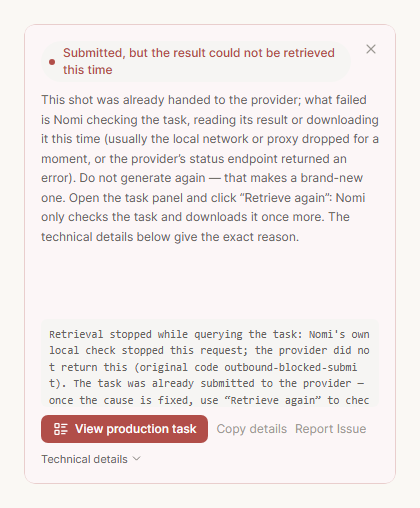
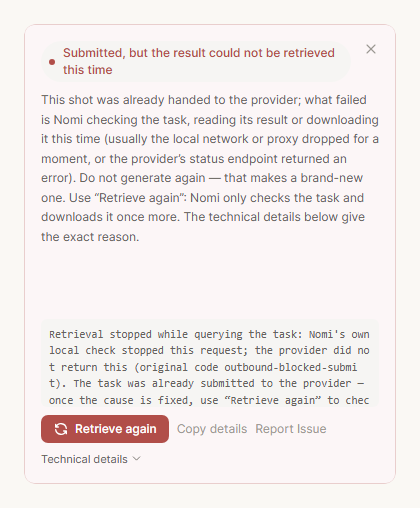
fix(canvas): 「已提交、没取回」错误卡主按钮按任务来源分——画布任务「去重新取回」，制作 Run 保留「查看制作任务」
协调 10-22 推送前要求：画布任务上写「查看制作任务」会误导（那是 Agent 制作任务的说法），而 view-task 对画布任务
打开的是任务中心，不是重新取回的地方。
- 新动作 open-recoverable（中英新键「去重新取回 / Retrieve again」）；NodeErrorReport 拿到节点 taskId（BaseGenerationNode 传入），
  画布任务（有 taskId、不是制作 Run）把 view-task 换成它，点了经 recoverTaskActions.reopenRecoverableNode 回到可找回面板；
  制作 Run 的镜保留「查看制作任务」；没有 taskId 的画布节点不给这颗按钮；
- retrieval-incomplete 的说明去掉「到任务面板」，两种去处都说得通；
- 中英截图重拍（画布 / 制作两种来源各一对），已逐张看过；测试 NodeErrorReport.retrievalSource.test.tsx 5/5，变异 → 2 红。

Direction-Check: docs/engineering/direction-checks/2026-10-22-retrieval-stage-error-class.md

Changed region(s): [[0.0929, 0.3543, 0.8667, 0.4724], [0.1238, 0.7972, 0.8667, 0.8858]]

diff --git a/src/workbench/generationCanvas/nodes/NodeErrorReport.tsx b/src/workbench/generationCanvas/nodes/NodeErrorReport.tsx
@@ -23,6 +23,7 @@ import { revealNotificationTarget } from '../../../ui/notificationPolicy'
 import { useSameCapabilityAlternative } from './useSameCapabilityAlternative'
 import { productionMetaOf } from '../model/productionMeta'
 import { withProjectAction } from '../../project/projectCanvasReadSurface'
+import { reopenRecoverableNode } from '../runner/recoverTaskActions'
 
 const ACTION_ICON: Record<GenerationErrorAction, typeof IconRefresh> = {
   retry: IconRefresh,
@@ -33,6 +34,7 @@ const ACTION_ICON: Record<GenerationErrorAction, typeof IconRefresh> = {
   // 「查看任务」去的是任务中心：和任务中心按钮同一个动作，用同一个图标。
   reconcile: IconListCheck,
   'view-task': IconListDetails,
+  'open-recoverable': IconRefresh,
   'release-regenerate': IconRefresh,
 }
 
@@ -55,9 +57,12 @@ export function NodeErrorReport({
   onDismiss,
   meta,
   nodeId,
+  taskId,
   summaryVisible = true,
 }: {
   message: string
+  /** 这次运行在服务商那边的任务号（节点 runs[0].taskId）。画布任务有它，「已提交、没取回」那一类才能回到可找回面板。 */
+  taskId?: string
   /** False when the owning node already displays this same failure summary inline. */
   summaryVisible?: boolean
   onRetry?: () => void
@@ -166,6 +171,13 @@ export function NodeErrorReport({
     })
   }, [releaseBusy, releaseRunId])
 
+  // 画布任务（不是制作 Run）且节点记着这次的 taskId：才回得到可找回面板。
+  const canvasRetrievable = Boolean(nodeId && taskId?.trim() && !productionMetaOf({ meta })?.runId)
+  const handleOpenRecoverable = React.useCallback((event: React.MouseEvent) => {
+    event.stopPropagation()
+    if (nodeId) reopenRecoverableNode(nodeId)
+  }, [nodeId])
+
   const handleReconcile = React.useCallback((event: React.MouseEvent) => {
     event.stopPropagation()
     const runId = productionMetaOf({ meta })?.runId
@@ -224,11 +236,15 @@ export function NodeErrorReport({
     'fix-model-kind': kindFixTarget ? handleFixModelKind : undefined,
     reconcile: handleReconcile,
     'view-task': handleReconcile,
+    'open-recoverable': canvasRetrievable ? handleOpenRecoverable : undefined,
     // 只有制作里的镜（有 runId）才放得了行；放行是把 Run 里那次未知尝试记掉，没有 Run 就没东西可记。
     'release-regenerate': releaseRunId ? (event: React.MouseEvent) => { event.stopPropagation(); setConfirmingRelease(true) } : undefined,
   }
   // 主动作点不了（例：同能力里没有另一个）时退到次动作，再不行才去模型接入。
-  const primaryAction = actionHandlers[report.primary] ? report.primary : report.secondary && actionHandlers[report.secondary] ? report.secondary : 'open-model-access'
+  // 「已提交、没取回」那一类的去处按任务来源分：制作 Run 去「查看制作任务」（任务中心里那一笔）；画布任务回到可找回面板
+  // 「去重新取回」——画布任务上写「查看制作任务」会误导（那是 Agent 制作任务的说法），而任务中心也不是重新取回的地方。
+  const sourcePrimary: GenerationErrorAction = report.primary === 'view-task' && canvasRetrievable ? 'open-recoverable' : report.primary
+  const primaryAction = actionHandlers[sourcePrimary] ? sourcePrimary : report.secondary && actionHandlers[report.secondary] ? report.secondary : 'open-model-access'
   const secondaryAction = report.secondary && report.secondary !== primaryAction && actionHandlers[report.secondary] ? report.secondary : null
   // 「改成图片」要点出改成**哪个**类型，否则按钮只是「改类型」——用户还得自己再想一步。
   const actionLabelParams: Record<string, string> | undefined = kindFixTarget ? { kind: narrateModelKind(kindFixTarget.requested) } : sameCapability ? { model: sameCapability.option.label } : undefined

diff --git a/src/workbench/generationCanvas/nodes/NodeErrorReport.retrievalSource.test.tsx b/src/workbench/generationCanvas/nodes/NodeErrorReport.retrievalSource.test.tsx
@@ -1,0 +1,57 @@
+// 「已提交、没取回」那一类错误卡的主按钮按任务来源分（⑬，协调 10-22）：
+// 画布任务回到可找回面板「去重新取回」；制作 Run 保留「查看制作任务」。画布任务上写「查看制作任务」会误导。
+import { beforeEach, describe, expect, it } from 'vitest'
+import { renderToStaticMarkup } from 'react-dom/server'
+
+import i18n from '../../../i18n'
+import { tagNomiError } from '../../../../electron/shared/nomiErrorCodes'
+import { useGenerationCanvasStore } from '../store/generationCanvasStore'
+import { reopenRecoverableNode } from '../runner/recoverTaskActions'
+import { NodeErrorReport } from './NodeErrorReport'
+
+const RETRIEVAL_FAILURE = tagNomiError('retrieval-query', '取回卡在「查询任务」这一步：socket hang up')
+
+function canvasNode(taskId?: string): string {
+  const store = useGenerationCanvasStore.getState()
+  const node = store.addNode({ kind: 'video', prompt: '镜头 1', meta: { modelVendor: 'apimart', modelKey: 'video-model' } })
+  store.appendNodeRun(node.id, { id: 'run-1', status: 'running', startedAt: 1, updatedAt: 1, ...(taskId ? { taskId } : {}) })
+  store.setNodeStatus(node.id, 'error', RETRIEVAL_FAILURE)
+  return node.id
+}
+
+beforeEach(async () => {
+  await i18n.changeLanguage('zh-CN')
+  useGenerationCanvasStore.getState().restoreSnapshot({ nodes: [], edges: [], selectedNodeIds: [], groups: [] })
+})
+
+describe('「已提交、没取回」错误卡的主按钮按任务来源分', () => {
+  for (const lang of ['zh-CN', 'en'] as const) {
+    it(`${lang} · 画布任务（有 taskId）：主按钮是「去重新取回」，不是「查看制作任务」`, async () => {
+      await i18n.changeLanguage(lang)
+      const nodeId = canvasNode('task-paid-1')
+      const markup = renderToStaticMarkup(<NodeErrorReport message={RETRIEVAL_FAILURE} nodeId={nodeId} taskId="task-paid-1" meta={{}} onRetry={() => {}} />)
+      expect(markup).toContain(i18n.t('generationCommon.observability.action.openRecoverable.main'))
+      expect(markup).not.toContain(i18n.t('generationCommon.observability.action.viewTask.main'))
+    })
+  }
+
+  it('制作 Run 的镜：保留「查看制作任务」', () => {
+    const nodeId = canvasNode('task-paid-2')
+    const markup = renderToStaticMarkup(<NodeErrorReport message={RETRIEVAL_FAILURE} nodeId={nodeId} taskId="task-paid-2" meta={{ productionRunId: 'run-x', productionShotId: 's1' }} onRetry={() => {}} />)
+    expect(markup).toContain(i18n.t('generationCommon.observability.action.viewTask.main'))
+    expect(markup).not.toContain(i18n.t('generationCommon.observability.action.openRecoverable.main'))
+  })
+
+  it('画布任务没有 taskId（回不到可找回）：不给一颗按不动的「去重新取回」，退回原动作', () => {
+    const nodeId = canvasNode()
+    const markup = renderToStaticMarkup(<NodeErrorReport message={RETRIEVAL_FAILURE} nodeId={nodeId} meta={{}} onRetry={() => {}} />)
+    expect(markup).not.toContain(i18n.t('generationCommon.observability.action.openRecoverable.main'))
+  })
+
+  it('点「去重新取回」：节点回到可找回态，错误原话留着（面板照样给技术详情）', () => {
+    const nodeId = canvasNode('task-paid-3')
+    expect(reopenRecoverableNode(nodeId)).toBe(true)
+    expect(useGenerationCanvasStore.getState().nodes.find((node) => node.id === nodeId)).toMatchObject({ status: 'recoverable', error: RETRIEVAL_FAILURE })
+    expect(reopenRecoverableNode(canvasNode())).toBe(false)
+  })
+})

diff --git a/src/i18n/locales/generationCommon.ts b/src/i18n/locales/generationCommon.ts
@@ -311,6 +311,7 @@ export const zhGenerationCommon = {
     action: {
       reconcile: { main: '在任务中心查看', alt: '先在任务中心查看' },
       viewTask: { main: '查看制作任务', alt: '去看制作任务' },
+      openRecoverable: { main: '去重新取回', alt: '去重新取回' },
       releaseRegenerate: { main: '我核对过了，重新生成', alt: '我核对过了，重新生成' },
       retry: { main: '重试', alt: '仍要重试' },
       switchModel: { main: '换个模型', alt: '换个模型' },
@@ -455,7 +456,7 @@ export const zhGenerationCommon = {
       // 只给「去任务面板重新取回」，绝不给重试：重试 = 再生成一份新的。
       retrievalIncomplete: {
         reason: '任务已提交，这次没能取回结果',
-        hint: '这一镜已经交给服务商了，是 Nomi 这一次查结果、读结果或下载结果没成（常见原因：本机网络或代理一时不通、服务商的查询接口报错）。不要重新生成，那会另做一份新的。到任务面板点「重新取回」，Nomi 只会再查一次、再下载一次。具体原因见下方技术详情。',
+        hint: '这一镜已经交给服务商了，是 Nomi 这一次查结果、读结果或下载结果没成（常见原因：本机网络或代理一时不通、服务商的查询接口报错）。不要重新生成，那会另做一份新的。点「重新取回」，Nomi 只会再查一次、再下载一次。具体原因见下方技术详情。',
       },
       // 本机处理失败（截帧 / 提取深度 / 本地素材复制）：没有服务商、没有模型参与——不说「换模型」，只留重试。
       localProcessing: {
@@ -2035,6 +2036,7 @@ export const enGenerationCommon = {
     action: {
       reconcile: { main: 'View in task center', alt: 'View in task center first' },
       viewTask: { main: 'View production task', alt: 'Open task center' },
+      openRecoverable: { main: 'Retrieve again', alt: 'Retrieve again' },
       releaseRegenerate: { main: "I've checked, generate again", alt: "I've checked, generate again" },
       retry: { main: 'Retry', alt: 'Retry anyway' },
       switchModel: { main: 'Switch model', alt: 'Switch model' },
@@ -2175,7 +2177,7 @@ export const enGenerationCommon = {
       },
       retrievalIncomplete: {
         reason: 'Submitted, but the result could not be retrieved this time',
-        hint: 'This shot was already handed to the provider; what failed is Nomi checking the task, reading its result or downloading it this time (usually the local network or proxy dropped for a moment, or the provider’s status endpoint returned an error). Do not generate again — that makes a brand-new one. Open the task panel and click “Retrieve again”: Nomi only checks the task and downloads it once more. The technical details below give the exact reason.',
+        hint: 'This shot was already handed to the provider; what failed is Nomi checking the task, reading its result or downloading it this time (usually the local network or proxy dropped for a moment, or the provider’s status endpoint returned an error). Do not generate again — that makes a brand-new one. Use “Retrieve again”: Nomi only checks the task and downloads it once more. The technical details below give the exact reason.',
       },
       localProcessing: {
         reason: 'Local processing failed',

diff --git a/src/workbench/observability/narrate.ts b/src/workbench/observability/narrate.ts
@@ -229,7 +229,7 @@ export function narrateModelKind(kind: string): string {
 // fix-model-kind：**直接把缺口补上**（改类型 + 按新类型重建调用通道），不是又把用户送去某一页
 // 自己找。这是这次唯一新增的动作——因为它是唯一一类「我们确切知道哪里错、也确切知道怎么改对」的
 // 失败。其余类别我们只知道现象、改不动，所以只能给「去哪儿」或「换一个」。
-export type GenerationErrorAction = 'retry' | 'switch-model' | 'switch-same-capability' | 'open-model-access' | 'fix-model-kind' | 'reconcile' | 'view-task' | 'release-regenerate'
+export type GenerationErrorAction = 'retry' | 'switch-model' | 'switch-same-capability' | 'open-model-access' | 'fix-model-kind' | 'reconcile' | 'view-task' | 'open-recoverable' | 'release-regenerate'
 
 // 每类的主动作 + 次动作都写在表里（2026-09-29 起）。次动作默认是「另一个最可能有用的」：主动作不是重试 →
 // 次给重试（想试还能试，不堵死用户）；主动作就是重试 → 次给换模型（等不及就换一家）。下面三个常量就是这条
@@ -377,6 +377,8 @@ const ACTION_KEY: Record<GenerationErrorAction, string> = {
   retry: 'retry',
   reconcile: 'reconcile',
   'view-task': 'viewTask',
+  // 画布任务（不是制作 Run）的「去重新取回」：错误卡按任务来源把 view-task 换成它（NodeErrorReport），点了回到可找回面板。
+  'open-recoverable': 'openRecoverable',
   'release-regenerate': 'releaseRegenerate',
 }
 

diff --git a/src/workbench/generationCanvas/runner/recoverTaskActions.ts b/src/workbench/generationCanvas/runner/recoverTaskActions.ts
@@ -171,6 +171,20 @@ export async function recoverNodeResult(nodeId: string, project: ProjectExecutio
   }
 }
 
+/**
+ * 回到可找回面板：画布任务（不是制作 Run）在错误卡上显示「已提交、没取回」那一类时，主按钮「去重新取回」走这里。
+ * 只有节点记着这次运行的 taskId 才回得去（免费续查靠它无状态重建查询）；没有就返回 false，调用方退回原动作。
+ * 错误原话留着：可找回面板照样给出服务商原话 / 技术详情。
+ */
+export function reopenRecoverableNode(nodeId: string): boolean {
+  const id = String(nodeId || '').trim()
+  const store = useGenerationCanvasStore.getState()
+  const node = store.nodes.find((item) => item.id === id)
+  if (!node || !String(node.runs?.[0]?.taskId || '').trim()) return false
+  store.setNodeStatus(id, 'recoverable', node.error)
+  return true
+}
+
 /** 放弃找回：用户明确把这个超时节点标为失败（进红色错误桶，可重试生成）。 */
 export function dismissRecoverableNode(nodeId: string): void {
   const id = String(nodeId || '').trim()

diff --git a/src/workbench/generationCanvas/nodes/BaseGenerationNode.tsx b/src/workbench/generationCanvas/nodes/BaseGenerationNode.tsx
@@ -302,7 +302,7 @@ function BaseGenerationNodeImpl({
       {/* 失败态：错误卡铺满节点正文（absolute inset-0 z-[5]），盖占位底纹但不挡 composer/resize/handles。 */}
       {status === 'error' && node.error ? (
         <NodeErrorReport summaryVisible={false}
-          message={node.error} meta={node.meta} nodeId={node.id}
+          message={node.error} meta={node.meta} nodeId={node.id} taskId={node.runs?.[0]?.taskId}
           onDismiss={() => useGenerationCanvasStore.getState().dismissNodeError(node.id)}
           onRetry={
             isAssetKind && node.meta?.source === 'clipboard-url'

diff --git a/docs/evidence/2026-10-22-retrieval-stage-error-class/README.md b/docs/evidence/2026-10-22-retrieval-stage-error-class/README.md
@@ -19,6 +19,7 @@
 |---|---|
 | `panel-before-zh.png` / `panel-before-en.png` | 可找回面板，修前主进程交出的报错：技术详情里是「这次生成没有发出去……重新生成」/「was never sent … generate again」 |
 | `panel-after-zh.png` / `panel-after-en.png` | 可找回面板，修后主进程交出的报错：「取回卡在『查询任务』这一步：这次请求是 Nomi 在本机做的检查拦下的，不是服务商返回的（原始码 outbound-blocked-submit）……」；主按钮仍是「重新取回」 |
-| `card-after-zh.png` / `card-after-en.png` | 新一类「任务已提交，这次没能取回结果」的错误卡（中英），主动作「查看制作任务」，没有重试 / 换模型 |
+| `card-after-zh.png` / `card-after-en.png` | 新一类「任务已提交，这次没能取回结果」的错误卡，**画布任务**（有 taskId、不是制作 Run）：主按钮「去重新取回 / Retrieve again」，点了回到可找回面板；没有重试 / 换模型 |
+| `card-after-production-zh.png` / `card-after-production-en.png` | 同一类错误卡，**制作 Run 的镜**：主按钮保留「查看制作任务 / View production task」（去任务中心里那一笔） |
 
 `capture-receipt.json` 是每张图的可见文字。

diff --git a/docs/plan/2026-10-22-retrieval-stage-error-class.md b/docs/plan/2026-10-22-retrieval-stage-error-class.md
@@ -46,6 +46,10 @@ C4 需要分类器给 `retrieval-*` 一个归宿，两种做法：
 - **A（推荐）新增一类「已提交、这次没取回」**：中英各一条 reason / hint，主动作「去任务面板重新取回」；文案只说事实（任务已提交、这次查询 / 下载没成、点重新取回只查不生成），不谈钱。代价：新文案一组，要过 `check:i18n` 和文案约束。
 - **B 复用现有 `output-retrieval-failed`**：零新文案；但它的话是「已经生成，但结果没能取回」，查询这一步失败时其实不知道生成好了没有，说「已经生成」不准。
 
+### 协调补充（10-22，推送前）
+
+错误卡主按钮按任务来源分：画布任务「去重新取回 / Retrieve again」，点了回到可找回面板；制作 Run 保留「查看制作任务」（那是 Agent 制作任务的说法，放在画布任务上会误导）。中英截图重拍。
+
 ## 9 格（花钱 / 长跑）
 
 | 格 | 结论 |
